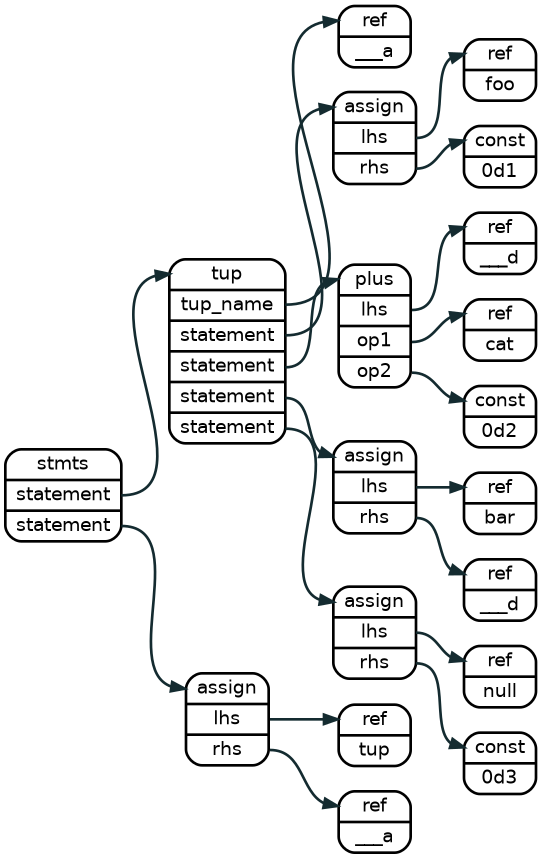
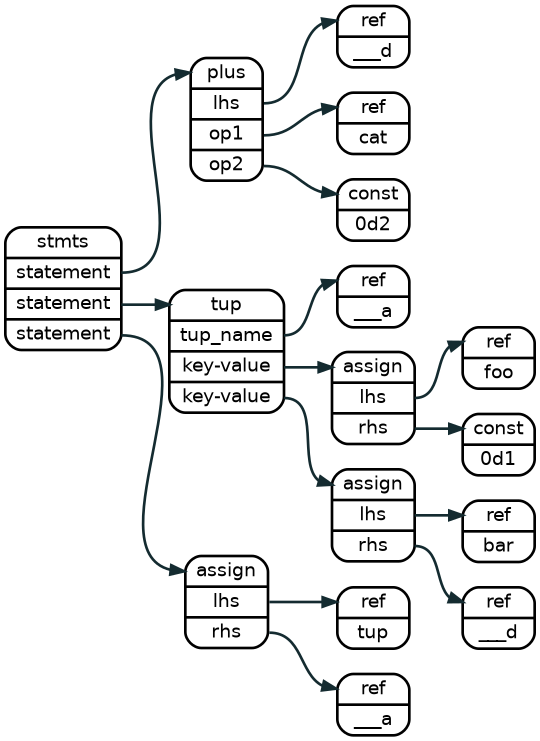
change tuple to a hash-map like representation

Changed region(s): [[0.0, 0.0, 1.0, 0.9933], [0.8, 0.6208, 0.8296, 0.6518]]

diff --git a/source/includes/_ntype.md b/source/includes/_ntype.md
@@ -418,48 +418,52 @@ auto idx_op5     = lnast->add_child(idx_assign, LNast_node::create_const (token_
 ![assign](source/graphviz/full_case_if.png)
 
 
-#Tuple Statement
+#!!!Tuple Statement
 ```coffescript
 // Pyrope
-tup = (foo = 1, bar = cat + 2, 3)
+tup = (foo = 1, bar = cat + 2)
 ```
 
 ```verilog
 // Verilog
+typede packed {
+  logic  foo;
+  logic [4:0]  bar;
+} tup_t;
 
+tup_t tup;
+
+always_comb begin
+  tup.foo = 1;
+  tup.bar = cat + 2;
+end
 ```
 
 ```shell
 // CFG 
-1       0       0       SEQ0
-2       1       0       TUP0    ___a
-3       2       0       0       33      =       foo     0d1
-4       2       1       0       33      +       ___d    cat     0d2
-5       2       2       0       33      =       bar     ___d
-6       2       3       0       33      =       null    0d3
-7       1       4       0       33      =       tup     ___a
+1       0       x       SEQ0
+4       1       x       0       33      +       ___d    cat     0d2
+2       1       x       TUP0    ___a
+3       2       x       0       33      =       foo     0d1
+5       2       x       0       33      =       bar     ___d
+7       1       x       0       33      =       tup     ___a
 ```
 
 ```cpp
 //C++ 
-auto idx_tup     = lnast->add_child(idx_stmts0, Lnast_node::create_tuple   (token_1)); //string_view = "___a"
+auto idx_plus    = lnast->add_child(idx_stmts0, Lnast_node::create_plus    (token_1)); 
+auto idx_lhs     = lnast->add_child(idx_plus,   LNast_node::create_ref     (token_2)); //string_view = "___d"
+auto idx_op1     = lnast->add_child(idx_plus,   LNast_node::create_ref     (token_3)); //string_view = "cat"
+auto idx_op2     = lnast->add_child(idx_plus,   LNast_node::create_const   (token_4)); //string_view = "0d2"
 
-auto idx_assign  = lnast->add_child(idx_tup,    Lnast_node::create_assign  (token_2));
-auto idx_lhs     = lnast->add_child(idx_assign, LNast_node::create_ref     (token_3)); //string_view = "foo"
-auto idx_op1     = lnast->add_child(idx_assign, LNast_node::create_const   (token_4)); //string_view = "0d1"
-
-auto idx_plus    = lnast->add_child(idx_tup,    Lnast_node::create_plus    (token_5)); 
-auto idx_lhs     = lnast->add_child(idx_plus,   LNast_node::create_ref     (token_6)); //string_view = "___d"
-auto idx_op2     = lnast->add_child(idx_plus,   LNast_node::create_ref     (token_7)); //string_view = "cat"
-auto idx_op3     = lnast->add_child(idx_plus,   LNast_node::create_const   (token_8)); //string_view = "0d2"
+auto idx_tup     = lnast->add_child(idx_stmts0, Lnast_node::create_tuple   (token_5)); //string_view = "___a"
+auto idx_assign  = lnast->add_child(idx_tup,    Lnast_node::create_assign  (token_6));
+auto idx_lhs     = lnast->add_child(idx_assign, LNast_node::create_ref     (token_7)); //string_view = "foo"
+auto idx_op3     = lnast->add_child(idx_assign, LNast_node::create_const   (token_8)); //string_view = "0d1"
 
 auto idx_assign  = lnast->add_child(idx_tup,    Lnast_node::create_assign  (token_9));
 auto idx_lhs     = lnast->add_child(idx_assign, LNast_node::create_ref     (token_a)); //string_view = "bar"
 auto idx_op4     = lnast->add_child(idx_assign, LNast_node::create_ref     (token_b)); //string_view = "___d"
-
-auto idx_assign  = lnast->add_child(idx_tup,    Lnast_node::create_assign  (token_c));
-auto idx_lhs     = lnast->add_child(idx_assign, LNast_node::create_ref     (token_d)); //string_view = "null"
-auto idx_op5     = lnast->add_child(idx_assign, LNast_node::create_const   (token_e)); //string_view = "0d3"
 
 auto idx_assign  = lnast->add_child(idx_stmts0, Lnast_node::create_assign  (token_f));
 auto idx_lhs     = lnast->add_child(idx_assign, LNast_node::create_ref     (token_g)); //string_view = "tup"
@@ -472,7 +476,7 @@ auto idx_op6     = lnast->add_child(idx_assign, LNast_node::create_ref     (toke
 
 ```coffescript
 // Pyrope
-tup = (foo = 1, bar = cat + 2, 3) 
+tup = (foo = 1, bar = cat + 2) 
 tup = tup ++ (4, dog)
 
 ```
@@ -484,65 +488,57 @@ tup = tup ++ (4, dog)
 
 ```shell
 // CFG 
-1       0       0       SEQ0
-2       1       0       TUP0    ___a
-3       2       0       0       33      =       foo     0d1
-4       2       1       0       33      +       ___d    cat     0d2
-5       2       2       0       33      =       bar     ___d
-6       2       3       0       33      =       null    0d3
-7       1       4       0       33      =       tup     ___a
-8       1       0       TUP1    ___f
-9       8       5       35      54      =       null    0d4
-10      8       6       35      54      =       null    dog
-11      1       7       35      54      ++      ___e    tup     ___f
-12      1       8       35      54      =       tup     ___e
+1       0       x       SEQ0
+4       1       x       0       33      +       ___d    cat     0d2
+2       1       x       TUP0    ___a
+3       2       x       0       33      =       foo     0d1
+5       2       x       0       33      =       bar     ___d
+6       1       x       0       33      =       tup     ___a
+7       1       x       TUP1    ___f
+8       7       x       35      54      =       null    0d4
+9       7       x       35      54      =       null    dog
+10      1       x       35      54      ++      ___e    tup     ___f
+11      1       x       35      54      =       tup     ___e
 ```
 
 ```cpp
 //C++ 
-auto idx_tup     = lnast->add_child(idx_stmts0, Lnast_node::create_tuple   (token_1)); //string_view = "___a"
+auto idx_plus    = lnast->add_child(idx_stmts0, Lnast_node::create_plus    (token_1)); 
+auto idx_lhs     = lnast->add_child(idx_plus,   LNast_node::create_ref     (token_2)); //string_view = "___d"
+auto idx_op1     = lnast->add_child(idx_plus,   LNast_node::create_ref     (token_3)); //string_view = "cat"
+auto idx_op2     = lnast->add_child(idx_plus,   LNast_node::create_const   (token_4)); //string_view = "0d2"
 
-auto idx_assign  = lnast->add_child(idx_tup,    Lnast_node::create_assign  (token_2));
-auto idx_lhs     = lnast->add_child(idx_assign, LNast_node::create_ref     (token_3)); //string_view = "foo"
-auto idx_op1     = lnast->add_child(idx_assign, LNast_node::create_const   (token_4)); //string_view = "0d1"
-
-auto idx_plus    = lnast->add_child(idx_tup,    Lnast_node::create_plus    (token_5)); 
-auto idx_lhs     = lnast->add_child(idx_plus,   LNast_node::create_ref     (token_6)); //string_view = "___d"
-auto idx_op1     = lnast->add_child(idx_plus,   LNast_node::create_ref     (token_7)); //string_view = "cat"
-auto idx_op2     = lnast->add_child(idx_plus,   LNast_node::create_const   (token_8)); //string_view = "0d2"
+auto idx_tup     = lnast->add_child(idx_stmts0, Lnast_node::create_tuple   (token_5)); //string_view = "___a"
+auto idx_assign  = lnast->add_child(idx_tup,    Lnast_node::create_assign  (token_6));
+auto idx_lhs     = lnast->add_child(idx_assign, LNast_node::create_ref     (token_7)); //string_view = "foo"
+auto idx_op3     = lnast->add_child(idx_assign, LNast_node::create_const   (token_8)); //string_view = "0d1"
 
 auto idx_assign  = lnast->add_child(idx_tup,    Lnast_node::create_assign  (token_9));
 auto idx_lhs     = lnast->add_child(idx_assign, LNast_node::create_ref     (token_a)); //string_view = "bar"
-auto idx_op3     = lnast->add_child(idx_assign, LNast_node::create_ref     (token_b)); //string_view = "___d"
-
-auto idx_assign  = lnast->add_child(idx_tup,    Lnast_node::create_assign  (token_c));
-auto idx_lhs     = lnast->add_child(idx_assign, LNast_node::create_ref     (token_d)); //string_view = "null"
-auto idx_op4     = lnast->add_child(idx_assign, LNast_node::create_const   (token_e)); //string_view = "0d3"
+auto idx_op4     = lnast->add_child(idx_assign, LNast_node::create_ref     (token_b)); //string_view = "___d"
 
 auto idx_assign  = lnast->add_child(idx_stmts0, Lnast_node::create_assign  (token_f));
 auto idx_lhs     = lnast->add_child(idx_assign, LNast_node::create_ref     (token_g)); //string_view = "tup"
-auto idx_op5     = lnast->add_child(idx_assign, LNast_node::create_ref     (token_h)); //string_view = "___a"
-
+auto idx_op6     = lnast->add_child(idx_assign, LNast_node::create_ref     (token_h)); //string_view = "___a"
 
 auto idx_tup2    = lnast->add_child(idx_stmts0, Lnast_node::create_tuple   (token_i)); //string_view = "___f"
-
 auto idx_assign  = lnast->add_child(idx_tup2,   Lnast_node::create_assign  (token_j));
 auto idx_lhs     = lnast->add_child(idx_assign, LNast_node::create_ref     (token_k)); //string_view = "null"
-auto idx_op6     = lnast->add_child(idx_assign, LNast_node::create_const   (token_l)); //string_view = "0d4"
+auto idx_op7     = lnast->add_child(idx_assign, LNast_node::create_const   (token_l)); //string_view = "0d4"
 
 auto idx_assign  = lnast->add_child(idx_tup2,   Lnast_node::create_assign  (token_m));
 auto idx_lhs     = lnast->add_child(idx_assign, LNast_node::create_ref     (token_n)); //string_view = "null"
-auto idx_op7     = lnast->add_child(idx_assign, LNast_node::create_reg     (token_o)); //string_view = "dog"
+auto idx_op8     = lnast->add_child(idx_assign, LNast_node::create_reg     (token_o)); //string_view = "dog"
 
 
 auto idx_tconcat = lnast->add_child(idx_stmts0,  Lnast_node::create_tuple_concat (token_p)); 
 auto idx_lhs     = lnast->add_child(idx_tconcat, LNast_node::create_ref    (token_q)); //string_view = "___e"
-auto idx_op8     = lnast->add_child(idx_tconcat, LNast_node::create_ref    (token_r)); //string_view = "tup"
-auto idx_op9     = lnast->add_child(idx_tconcat, LNast_node::create_ref    (token_s)); //string_view = "___f"
+auto idx_op9     = lnast->add_child(idx_tconcat, LNast_node::create_ref    (token_r)); //string_view = "tup"
+auto idx_opa     = lnast->add_child(idx_tconcat, LNast_node::create_ref    (token_s)); //string_view = "___f"
 
 auto idx_assign  = lnast->add_child(idx_stmts0, Lnast_node::create_assign  (token_t));
 auto idx_lhs     = lnast->add_child(idx_assign, LNast_node::create_ref     (token_u)); //string_view = "tup"
-auto idx_op5     = lnast->add_child(idx_assign, LNast_node::create_ref     (token_v)); //string_view = "___e"
+auto idx_opb     = lnast->add_child(idx_assign, LNast_node::create_ref     (token_v)); //string_view = "___e"
 
 ```
 ![assign](source/graphviz/tuple_concat.png)
